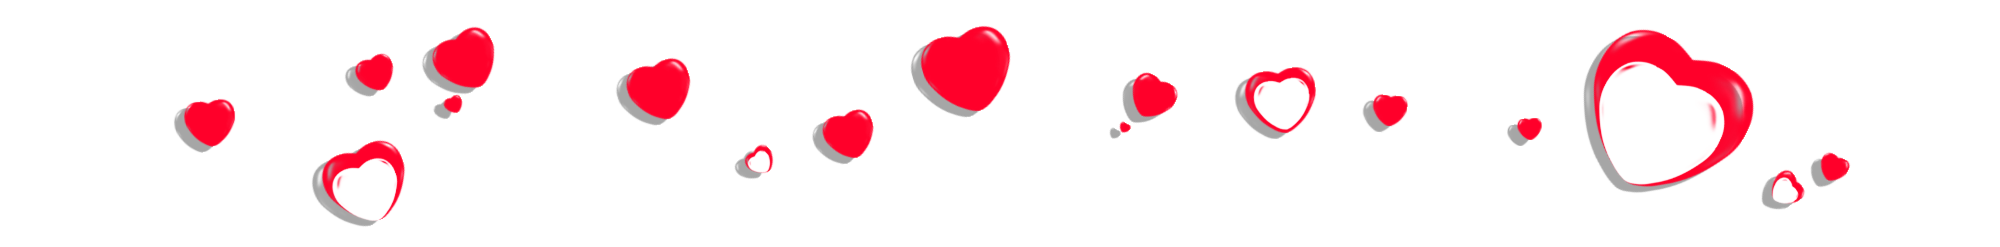
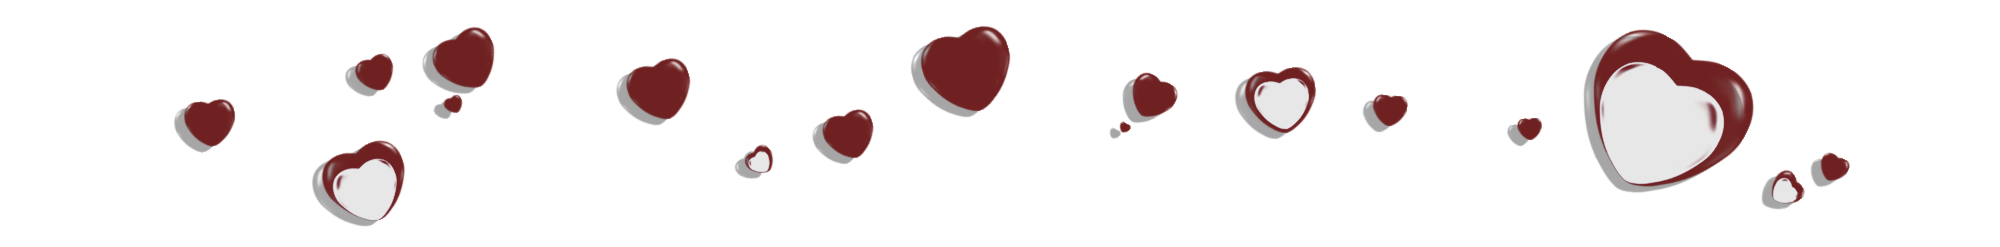
корект Арукоша

diff --git a/index.html b/index.html
@@ -51,7 +51,7 @@
 
             <!-- Дата и время -->
             <div class="uzatu-date">
-                05.12.2026<br>
+                06.12.2026<br>
                 <span class="uzatu-time">17:00</span>
             </div>
 
@@ -106,7 +106,7 @@
             ҚОНАҒЫ БОЛУҒА СІЗДЕРДІ ШАҚЫРАМЫЗ!<br>
         </div>
 
-
+<div class="line-one" style="margin: 20px auto;"><img class="line" src="line.png" alt=""></div>
     </section>
 
     <!-- СЕКЦИЯ: ТОЙ САЛТАНАТЫ И КАЛЕНДАРЬ -->

diff --git a/style.css b/style.css
@@ -369,7 +369,7 @@ body {
     color: #9c2f34;
     text-align: center;
     margin-bottom: 15px;
-    margin-top: 50px;
+    margin-top: 20px;
 }
 
 .invitation-text_p {
